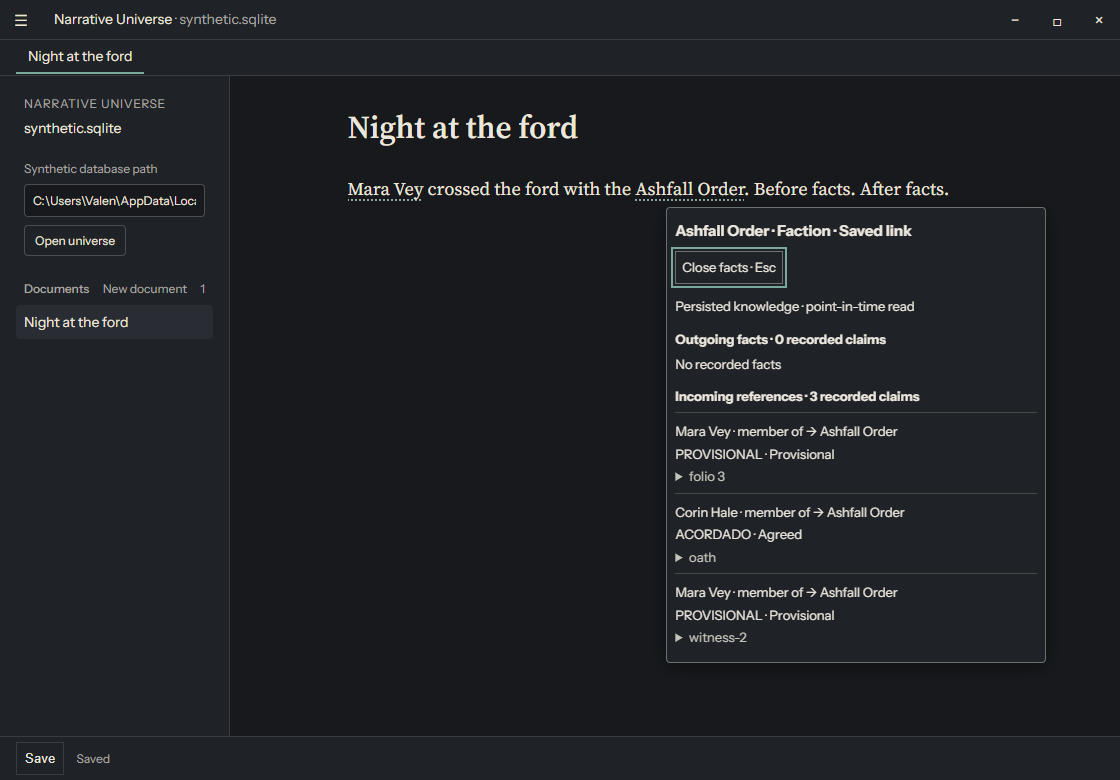
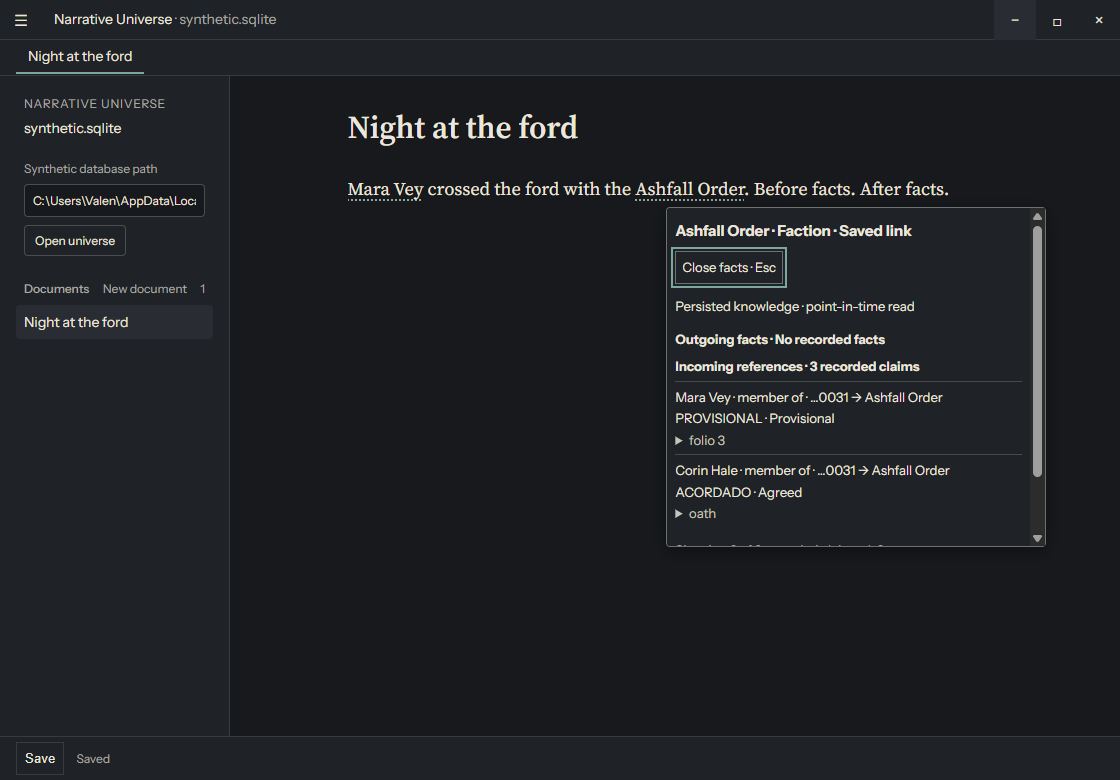
fix(reveal): compact facts peek and disambiguate same-label properties
Address PR #42 review:
- Greptile P2: separate definitions sharing a property label (including
  several unnamed ones) now show a shortest definition-ID suffix, so the
  fixture's two "member of" definitions no longer read as alternatives.
- Ari P2: the peek is capped at min(340px, 100vh - 220px) with internal
  scrolling, shows two rows per section (Next claims unchanged), and
  collapses empty sections. Native height drops from 96% to 57% at 800x600.
- Ari P3: result.json no longer records a machine-specific temp path.

Native capture re-run at 1120x780 and 800x600; Escape focus is asserted
via activeElement because view.hasFocus requires an OS-foreground window.

diff --git a/ui/desktop/connect.ts b/ui/desktop/connect.ts
@@ -84,7 +84,7 @@ export function connectEditor(options: {
     return options.allowed() && v === c.view && v.state.doc === c.doc && v.state.selection.eq(c.selection) && sameMentions(v.state.field(mentionField), c.mentions) && s?.sessionId === c.sessionId && s.pageId === c.pageId && options.token() === c.token;
   }
   function close(focus = false): void {
-    const held = picker; picker = {kind: "closed"}; popup.hidden = true; popup.replaceChildren();
+    const held = picker; picker = {kind: "closed"}; popup.hidden = true; popup.replaceChildren(); popup.classList.remove("facts");
     if (focus && held.kind !== "closed" && valid(held)) { held.view.contentDOM.focus({preventScroll: true}); for (const s of held.scroll) { s.element.scrollTop = s.top; s.element.scrollLeft = s.left; } }
   }
   function position(element: HTMLElement, view: EditorView): void {
@@ -102,7 +102,7 @@ export function connectEditor(options: {
   async function showFacts(capture: Capture, mention: Mention, savedLink: boolean, index: readonly EntitySummary[], caption: string): Promise<void> {
     if (picker.kind !== "inspect" || !valid(capture) || !options.reveal) return;
     picker = {...capture, kind: "facts"}; const pending = picker;
-    popup.setAttribute("aria-label", "Entity facts"); popup.replaceChildren();
+    popup.setAttribute("aria-label", "Entity facts"); popup.replaceChildren(); popup.classList.add("facts");
     const closeButton = document.createElement("button"); closeButton.type = "button"; closeButton.textContent = "Close facts · Esc"; closeButton.onclick = () => close(true);
     const heading = document.createElement("h2"); heading.textContent = caption;
     const content = document.createElement("div"); content.setAttribute("role", "status"); content.textContent = "Loading persisted facts…";
@@ -119,26 +119,36 @@ export function connectEditor(options: {
       for (const identity of [...index, data.entity, ...[...data.outgoing, ...data.incoming].flatMap(c => [c.subject, ...(c.value.kind === "reference" ? [c.value.target] : [])])]) {
         const ids = labels.get(identity.label) ?? new Set<string>(); ids.add(identity.id); labels.set(identity.label, ids);
       }
-      const name = (identity: RevealIdentity) => {
-        const ids = [...(labels.get(identity.label) ?? [])];
-        if (ids.length < 2) return identity.label;
+      // Same-label identities get the shortest distinguishing ID suffix (at least 4 characters).
+      const suffixed = (label: string, id: string, ids: readonly string[]) => {
+        if (ids.length < 2) return label;
         let length = 4;
-        while (length < identity.id.length && ids.some(id => id !== identity.id && id.slice(-length) === identity.id.slice(-length))) length++;
-        return `${identity.label} · …${identity.id.slice(-length)}`;
+        while (length < id.length && ids.some(other => other !== id && other.slice(-length) === id.slice(-length))) length++;
+        return `${label} · …${id.slice(-length)}`;
       };
+      const name = (identity: RevealIdentity) => suffixed(identity.label, identity.id, [...(labels.get(identity.label) ?? [])]);
+      // Separate definitions may share a label (or all be unnamed); never let them read as one property.
+      const properties = new Map<string, Set<string>>();
+      for (const claim of [...data.outgoing, ...data.incoming]) {
+        const label = claim.propertyLabel ?? "Unnamed property", ids = properties.get(label) ?? new Set<string>(); ids.add(claim.definitionId); properties.set(label, ids);
+      }
+      const property = (claim: RevealClaim) => { const label = claim.propertyLabel ?? "Unnamed property"; return suffixed(label, claim.definitionId, [...(properties.get(label) ?? [])]); };
       heading.textContent = `${name(data.entity)}${data.typeLabel ? " · " + data.typeLabel : ""} · ${savedLink ? "Saved link" : "Unsaved link"}`;
+      const PAGE = 2; // Rows per section; keeps the peek compact while Next claims reaches every claim deterministically.
       const gloss = {ACORDADO: "Agreed", PROVISIONAL: "Provisional", ABIERTO: "Open", MISTERIO_INTENCIONAL: "Intentional mystery"};
       function section(title: string, claims: RevealClaim[]): void {
         const region = document.createElement("section"), heading = document.createElement("h3"), rows = document.createElement("div");
-        heading.textContent = `${title} · ${claims.length} recorded claims`; region.append(heading, rows); content.append(region);
+        region.append(heading); content.append(region);
+        // Empty sections collapse to their heading line to keep the peek compact.
+        if (!claims.length) { heading.textContent = title === "Outgoing facts" ? "Outgoing facts · No recorded facts" : "Incoming references · No incoming references"; return; }
+        heading.textContent = `${title} · ${claims.length} recorded claims`; region.append(rows);
         let offset = 0;
         function render(): void {
           rows.replaceChildren();
-          if (!claims.length) { rows.textContent = title === "Outgoing facts" ? "No recorded facts" : "No incoming references"; return; }
-          for (const claim of claims.slice(offset, offset + 4)) {
+          for (const claim of claims.slice(offset, offset + PAGE)) {
             const row = document.createElement("article"); row.className = "fact-row"; row.dataset.assertionId = claim.id; row.dataset.definitionId = claim.definitionId;
             const value = claim.value.kind === "reference" ? name(claim.value.target) : claim.value.kind === "text" ? claim.value.text : claim.value.kind === "boolean" ? (claim.value.value ? "Yes" : "No") : "Unknown (recorded)";
-            const text = document.createElement("p"); text.textContent = `${name(claim.subject)} · ${claim.propertyLabel ?? "Unnamed property"} → ${value}`;
+            const text = document.createElement("p"); text.textContent = `${name(claim.subject)} · ${property(claim)} → ${value}`;
             const state = document.createElement("p"); state.textContent = `${claim.canon} · ${gloss[claim.canon]}`;
             const source = document.createElement("details"), summary = document.createElement("summary"), metadata = document.createElement("p");
             const entries = Object.entries(claim.provenance).filter(([,value]) => value !== null);
@@ -147,10 +157,10 @@ export function connectEditor(options: {
             source.addEventListener("toggle", () => { if (picker === pending && valid(capture)) position(popup, capture.view); });
             source.append(summary, metadata); row.append(text, state, source); rows.append(row);
           }
-          if (claims.length > 4) {
-            const count = document.createElement("p"); count.textContent = `Showing ${Math.min(4, claims.length - offset)} of ${claims.length} recorded claims · ${offset + 1}–${Math.min(offset + 4, claims.length)}`;
+          if (claims.length > PAGE) {
+            const count = document.createElement("p"); count.textContent = `Showing ${Math.min(PAGE, claims.length - offset)} of ${claims.length} recorded claims · ${offset + 1}–${Math.min(offset + PAGE, claims.length)}`;
             const next = document.createElement("button"); next.type = "button"; next.textContent = "Next claims";
-            next.onclick = () => { if (picker !== pending || !valid(capture)) { close(); return; } offset = offset + 4 < claims.length ? offset + 4 : 0; render(); rows.querySelector("button")?.focus(); position(popup, capture.view); };
+            next.onclick = () => { if (picker !== pending || !valid(capture)) { close(); return; } offset = offset + PAGE < claims.length ? offset + PAGE : 0; render(); rows.querySelector("button")?.focus(); position(popup, capture.view); };
             rows.append(count, next);
           }
         }

diff --git a/ui/test/desktop.test.ts b/ui/test/desktop.test.ts
@@ -630,7 +630,8 @@ test('facts use returned persisted values on clean and dirty links, preserve edi
     view.dispatch({selection:{anchor:2}});view.focus();const state=view.state;view.scrollDOM.scrollTop=70;
     await showFacts(ui);const popup=ui.doc.querySelector('.entity-picker');
     assert.match(popup.textContent,/Mara Vey.*member of.*Ashfall Order/);assert.match(popup.textContent,/PROVISIONAL.*Provisional/);assert.match(popup.textContent,/folio 3/);
-    assert.match(popup.textContent,/Unnamed property.*Unknown \(recorded\)/);assert.match(popup.textContent,/MISTERIO_INTENCIONAL/);assert.match(popup.textContent,/No source recorded/);
+    assert.match(popup.textContent,/Unnamed property.*Unknown \(recorded\)/);assert.match(popup.textContent,/MISTERIO_INTENCIONAL/);
+    assert.match(popup.textContent,/Showing 2 of 3 recorded claims/);factButton(ui,'Next claims').click();assert.match(popup.textContent,/No source recorded/);assert.ok(popup.classList.contains('facts'));
     assert.equal(popup.querySelector('a'),null);assert.equal(calls.find(([cmd])=>cmd==='entity_reveal')[1].universeToken,'test-token');assert.equal(calls.find(([cmd])=>cmd==='entity_reveal')[1].entityId,'house-0002');
     key(ui,popup,'Escape');assert.equal(view.hasFocus,true);assert.equal(view.state,state);assert.equal(view.scrollDOM.scrollTop,70);assert.deepEqual(view.state.field(mentionField),[heldReveal]);
     assert.equal(calls.some(([cmd])=>cmd==='save_page'),false);assert.equal(ui.doc.querySelector('#save-status').textContent,dirty?'Unsaved':'Saved');
@@ -685,9 +686,29 @@ test('facts paginate stable ids, render source as text and reposition expanded p
   const claims=Array.from({length:7},(_,n)=>({...revealFact,id:`claim-${n}`,definitionId:`def-${n}`,provenance:{...revealFact.provenance,locator:'<script>long source</script>'.repeat(20)}}));
   const ui=connectSetup(async cmd=>cmd==='entity_reveal'?{...revealData,outgoing:claims,incoming:[]}:undefined,{...page,body:'Valdoria at dawn.',mentions:[heldReveal]});
   ui.open('a');await tick();const view=ui.view();view.coordsAtPos=()=>({left:20,right:20,top:650,bottom:670});await showFacts(ui);
-  const popup=ui.doc.querySelector('.entity-picker');assert.equal(popup.querySelectorAll('article').length,4);assert.match(popup.textContent,/Showing 4 of 7 recorded claims/);assert.equal(popup.querySelector('script'),null);
+  const popup=ui.doc.querySelector('.entity-picker');assert.equal(popup.querySelectorAll('article').length,2);assert.match(popup.textContent,/Showing 2 of 7 recorded claims/);assert.equal(popup.querySelector('script'),null);
   const detail=popup.querySelector('details');Object.defineProperty(popup,'offsetHeight',{get:()=>detail.open?600:100});detail.open=true;detail.dispatchEvent(new ui.doc.defaultView.Event('toggle'));
   assert.ok(parseFloat(popup.style.top)+600<=ui.doc.defaultView.innerHeight);
-  factButton(ui,'Next claims').click();assert.equal(popup.querySelectorAll('article').length,3);assert.equal(popup.querySelector('article').dataset.assertionId,'claim-4');assert.match(popup.textContent,/Showing 3 of 7 recorded claims/);
+  factButton(ui,'Next claims').click();assert.equal(popup.querySelectorAll('article').length,2);assert.equal(popup.querySelector('article').dataset.assertionId,'claim-2');assert.match(popup.textContent,/Showing 2 of 7 recorded claims · 3–4/);
+  for(let n=0;n<2;n++)factButton(ui,'Next claims').click();assert.equal(popup.querySelectorAll('article').length,1);assert.equal(popup.querySelector('article').dataset.assertionId,'claim-6');
+  factButton(ui,'Next claims').click();assert.equal(popup.querySelector('article').dataset.assertionId,'claim-0');
   ui.close();
+});
+
+test('facts distinguish separate definitions sharing a label, including several unnamed ones', async()=>{
+  const def=(id,definitionId,propertyLabel)=>({...revealFact,id,definitionId,propertyLabel});
+  const outgoing=[def('a','00000000-0000-4000-8000-000000000031','member of'),def('b','00000000-0000-4000-8000-000000000038','member of'),def('c','00000000-0000-4000-8000-000000000037',null),def('d','00000000-0000-4000-8000-000000000039',null),def('e','00000000-0000-4000-8000-000000000032','born in')];
+  const ui=connectSetup(async cmd=>cmd==='entity_reveal'?{...revealData,outgoing,incoming:[]}:undefined,{...page,body:'Valdoria at dawn.',mentions:[heldReveal]});
+  ui.open('a');await tick();await showFacts(ui);const popup=ui.doc.querySelector('.entity-picker');
+  const rows=()=>[...popup.querySelectorAll('article p:first-child')].map(p=>p.textContent);
+  assert.deepEqual(rows(),['Mara Vey · member of · …0031 → Ashfall Order','Mara Vey · member of · …0038 → Ashfall Order']);
+  factButton(ui,'Next claims').click();assert.deepEqual(rows(),['Mara Vey · Unnamed property · …0037 → Ashfall Order','Mara Vey · Unnamed property · …0039 → Ashfall Order']);
+  factButton(ui,'Next claims').click();assert.deepEqual(rows(),['Mara Vey · born in → Ashfall Order']);
+  key(ui,popup,'Escape');assert.equal(popup.classList.contains('facts'),false);ui.close();
+});
+
+test('empty facts sections collapse to a single heading line', async()=>{
+  const ui=connectSetup(async cmd=>cmd==='entity_reveal'?{...revealData,outgoing:[],incoming:[]}:undefined,{...page,body:'Valdoria at dawn.',mentions:[heldReveal]});
+  ui.open('a');await tick();await showFacts(ui);const popup=ui.doc.querySelector('.entity-picker');
+  assert.deepEqual([...popup.querySelectorAll('section')].map(s=>[s.children.length,s.textContent]),[[1,'Outgoing facts · No recorded facts'],[1,'Incoming references · No incoming references']]);ui.close();
 });

diff --git a/ui/desktop/style.css b/ui/desktop/style.css
@@ -126,9 +126,11 @@ dialog::backdrop { background: rgba(0,0,0,.6); }
 
 /* On-demand R1-B overlay; never participates in the prose layout. */
 .entity-picker { max-height:calc(100vh - 24px); overflow-y:auto; overflow-wrap:anywhere; }
+/* Facts stay a compact peek: well below the viewport, scrolling internally (expanded sources included). */
+.entity-picker.facts { max-height:min(340px, calc(100vh - 220px)); overscroll-behavior:contain; }
 .entity-picker h2 { font-size:15px; margin:4px 0 8px; }
-.entity-picker h3 { font-size:13px; margin:12px 0 6px; }
-.fact-row { border-top:1px solid #454a47; padding:6px 0; }
-.fact-row p { margin:3px 0; }
+.entity-picker h3 { font-size:13px; margin:8px 0 4px; }
+.fact-row { border-top:1px solid #454a47; padding:4px 0; }
+.fact-row p { margin:2px 0; }
 .fact-row details { color:#c6c6bc; }
 .fact-row summary { cursor:pointer; }

diff --git a/docs/reveal-acceptance.md b/docs/reveal-acceptance.md
@@ -40,14 +40,21 @@ prototype or a mocked invoke. Screenshots are WebView2 viewport captures from
 that process. See [machine results](evidence/reveal-native/result.json).
 
 - Actual inner viewports: 1120 x 780 and 800 x 600, DPR 1. Prose column stayed
-  640 CSS pixels in both. The compact popup fits and scrolls inside the viewport.
+  640 CSS pixels in both. The facts peek is 340 px tall: 44% of 1120 x 780 and
+  57% of 800 x 600 (previously 615 px and 576 px, 96%). The script asserts it
+  stays at or under 60% of the viewport, including with source expanded, and
+  scrolls internally. Title and linked prose stay visible.
+- Mara's two distinct `member of` definitions render as `member of · …0031`
+  and `member of · …0038`, so neither reads as an alternative of the other.
 - Mara: genuine member of -> Ashfall Order, PROVISIONAL, folio 3; alternative
   Tidewardens ABIERTO remains visible. Recorded source expansion also fits.
 - Ashfall: incoming references retain Mara/Corin as subjects and member of as
   the predicate. No invented inverse.
 - Before/after text edits persist through Save and reopen, retaining original
   mention IDs. Reads leave doc identity, selection, mentions and dirty state
-  unchanged; Escape restores editor focus. Long-scene scrollTop 3429 remains
+  unchanged; Escape returns DOM focus (`activeElement`) to the editor. The
+  script does not use `view.hasFocus`, which also requires the native window to
+  be OS-foreground and therefore flakes when capture runs in the background. Long-scene scrollTop 3429 remains
   stable while inspecting and closing.
 
 Evidence: [Mara 800](evidence/reveal-native/mara-800.png),
@@ -89,5 +96,5 @@ Run `npm run desktop:dev` in ui, open that synthetic database, and:
 
 This is a point-in-time read, not live canon synchronization. Large entity
 claim sets are fully projected in memory, while presentation is bounded to
-four rows per section. R2 and source navigation remain deferred. Stop at the
+two rows per section. R2 and source navigation remain deferred. Stop at the
 single PR; no merge is authorized.

diff --git a/.csdd/decisions.md b/.csdd/decisions.md
@@ -102,11 +102,16 @@ accepted direction from implementation alone.
   or malformed records fail closed. The token-scoped bridge preserves typed
   values, assertion/definition IDs, property metadata, literal canon, source
   status, full provenance and scope. No schema/exchange changes.
-- Decision: Next claims cycles deterministic groups of four within each
-  section without ranking canon. Null label, recorded Unknown, boolean false,
+- Decision: Next claims cycles deterministic groups of two within each
+  section without ranking canon (reduced from four after PR #42 review: the
+  peek must stay compact, capped at min(340px, 100vh - 220px) with internal
+  scrolling). Empty sections collapse to one heading line. Null label, recorded Unknown, boolean false,
   no outgoing claims and absent provenance have distinct UI language. Sources
   are plain text, never invented navigation. Same-name identities receive the
-  shortest distinguishing suffix (minimum four characters).
+  shortest distinguishing suffix (minimum four characters). Separate
+  definitions sharing a property label, including several unnamed ones, get
+  the same definition-ID suffix so they never read as alternatives of one
+  property.
 - Decision: an unsaved occurrence may read persisted entity knowledge. A new
   request has its own identity; closure or any captured editor/session drift
   invalidates it, including a same-entity reopen. Errors stay inside the peek

diff --git a/DESIGN.md b/DESIGN.md
@@ -247,9 +247,10 @@ introduced. R2 expanded context remains deferred.
 The peek shows persisted identity and outgoing claims first, followed by
 incoming references in their stored subject > predicate > target orientation.
 Canon literals and human glosses remain attached to every claim; no claim is
-ranked as truth. Four rows per section are shown at a time in definition-ID,
+ranked as truth. Two rows per section are shown at a time in definition-ID,
 assertion-ID order with explicit counts and a keyboard-accessible Next claims
 button cycling through the remaining rows. Provenance expands as plain text.
-The overlay scrolls within the viewport and repositions when source details
-expand. Escape returns focus and captured scroll only while the editor,
+The overlay is capped at min(340px, 100vh - 220px), scrolls internally and
+repositions when source details expand. Empty sections collapse to one line.
+Distinct definitions sharing a label show a short definition-ID suffix. Escape returns focus and captured scroll only while the editor,
 document, selection, mentions, session, page and universe capture remain valid.
